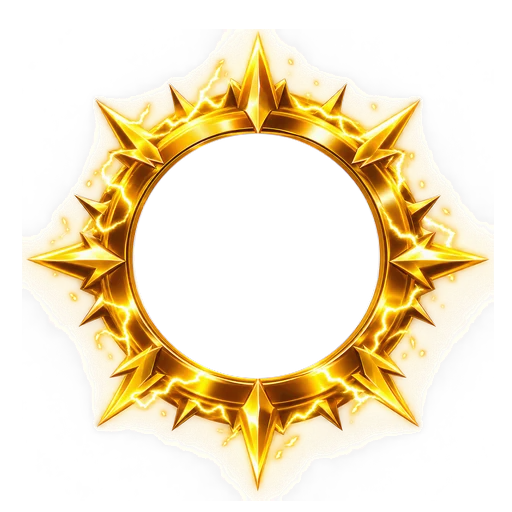
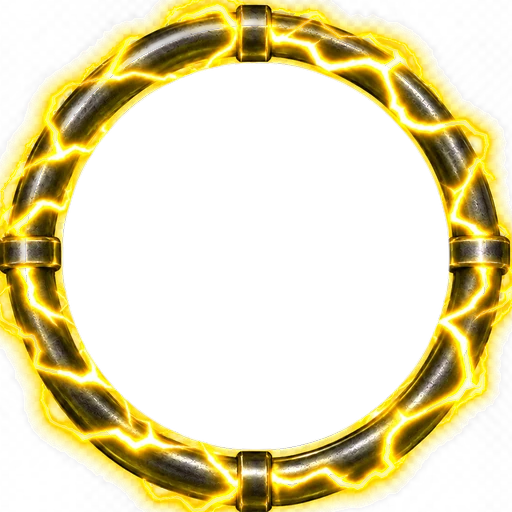
Swap in slimmer lightning ring frames
The user found the spiky frames too big. The new gold, blue and green
thin rings replace them; the green and gold images had a baked-in
checkerboard background, which is removed by unmixing against a
fitted checker template.

diff --git a/backend/css/app.css b/backend/css/app.css
@@ -2042,10 +2042,10 @@ button.chaqmoq-belgi:active { transform: scale(.95); }
 @media (prefers-reduced-motion: reduce) { .nik-emoji { animation: none; } }
 .premium-halqa { border-radius: 50%; box-shadow: 0 0 0 2.5px #fff, 0 0 0 5px #f5b301, 0 0 14px 4px rgba(245, 179, 1, .45); }
 
-/* Premium avatar ramkasi (assets/ramka/*.webp): rasm markazidagi teshik radiusi — rasm o'lchamining 24%.
-   --rk — ramka o'lchami avatarga nisbatan: 1.96 da teshik avatar chetiga tegadi, kichikroq
-   qiymatda ramka avatar chetini biroz yopadi (ro'yxatlarda tikanlar qo'shni qatorga chiqmasin). */
-.ramkali { position: relative; display: inline-grid; place-items: center; flex: 0 0 auto; --rk: 1.96; }
+/* Premium avatar ramkasi (assets/ramka/*.webp): ingichka chaqmoqli halqa, rasm markazidagi teshik
+   radiusi — rasm o'lchamining 38%. --rk — ramka o'lchami avatarga nisbatan: 1.3 da halqa avatar
+   chetiga zich yopishadi, kichikroq qiymatda avatar chetini biroz yopadi (ro'yxatlarda). */
+.ramkali { position: relative; display: inline-grid; place-items: center; flex: 0 0 auto; --rk: 1.3; }
 .ramkali > .ramka {
   position: absolute; left: 50%; top: 50%; z-index: 2; pointer-events: none;
   width: calc(var(--rk) * 100%); height: calc(var(--rk) * 100%);
@@ -2054,23 +2054,23 @@ button.chaqmoq-belgi:active { transform: scale(.95); }
   animation: ramkaNur 3.2s ease-in-out infinite;
 }
 .ramka.r-oltin-chaqmoq { background-image: url(../assets/ramka/oltin-chaqmoq.webp); }
-.ramka.r-brilyant-boron { background-image: url(../assets/ramka/brilyant-boron.webp); }
-.ramka.r-kamalak-plazma { background-image: url(../assets/ramka/kamalak-plazma.webp); }
+.ramka.r-kok-chaqmoq { background-image: url(../assets/ramka/kok-chaqmoq.webp); }
+.ramka.r-yashil-chaqmoq { background-image: url(../assets/ramka/yashil-chaqmoq.webp); }
 @keyframes ramkaNur { 0%, 100% { filter: brightness(1) saturate(1); } 50% { filter: brightness(1.16) saturate(1.12); } }
 @media (prefers-reduced-motion: reduce) { .ramkali > .ramka { animation: none; } }
-.reyting-qator .ramkali { --rk: 1.72; margin: 0 4px; }
-.bosh-ramka { --rk: 2.02; margin: 12px 16px 12px 12px; }
+.reyting-qator .ramkali { --rk: 1.24; margin: 0 2px; }
+.bosh-ramka { --rk: 1.3; margin: 0 6px 0 4px; }
 .bosh-ramka > .avatar-halqa { margin: 0; }
 .ramkali.ramka-ichida > .avatar { box-shadow: none; }
 
 /* Sozlamalar: ramka tanlash */
 .ramka-tanlov { display: grid; grid-template-columns: repeat(3, 1fr); gap: 10px; margin-top: 10px; }
 .ramka-katak {
-  display: grid; justify-items: center; gap: 10px; padding: 22px 6px 12px;
+  display: grid; justify-items: center; gap: 10px; padding: 16px 6px 12px;
   border-radius: 16px; border: 2px solid var(--chiziq); background: var(--oq); cursor: pointer;
   font: inherit; font-size: 12.5px; font-weight: 800; color: var(--matn-quyuq); overflow: hidden;
 }
-.ramka-katak .ramkali { margin: 8px 0; }
+.ramka-katak .ramkali { margin: 4px 0; }
 .ramka-katak .avatar { width: 46px; height: 46px; font-size: 18px; }
 .ramka-katak.tanlangan { border-color: #f5b301; background: #fff7d6; box-shadow: 0 0 0 3px rgba(245, 179, 1, .25); }
 .ramka-tanlov.qulf { opacity: .6; filter: grayscale(.2); }

diff --git a/backend/js/i18n.js b/backend/js/i18n.js
@@ -367,8 +367,8 @@
     'Bilim Premium': 'Bilim Premium', 'Bilim Premium (1 oy)': 'Bilim Premium (1 мес.)', 'Bilim Premium (1 oy) •': 'Bilim Premium (1 мес.) •',
     'AI, shaxsiy darslar, emoji va oltin halqa': 'ИИ, личные уроки, эмодзи и золотое кольцо',
     'AI, shaxsiy darslar, emoji va avatar ramkasi': 'ИИ, личные уроки, эмодзи и рамка аватара',
-    'Avatar ramkasi': 'Рамка аватара', 'Oltin chaqmoq': 'Золотая молния', "Brilyant bo'ron": 'Бриллиантовая буря',
-    'Kamalak plazma': 'Радужная плазма', 'Ramka saqlandi': 'Рамка сохранена',
+    'Avatar ramkasi': 'Рамка аватара', 'Oltin chaqmoq': 'Золотая молния', "Ko'k chaqmoq": 'Синяя молния',
+    'Yashil chaqmoq': 'Зелёная молния', 'Ramka saqlandi': 'Рамка сохранена',
     "Avataringiz atrofida chaqmoqli ramka paydo bo'ladi — 3 xil ramkadan birini tanlaysiz. Hamma sizni Premium o'quvchi ekaningizni ko'radi.":
       'Вокруг аватара появится рамка с молниями — выберите одну из 3. Все увидят, что вы ученик с Premium.',
     "Tanlagan ramkangiz profil, reyting va o'yinlarda avataringiz atrofida ko'rinadi.":

diff --git a/backend/premium.html b/backend/premium.html
@@ -42,8 +42,8 @@
   .pr-band p { font-size: 13px; color: var(--matn-2); line-height: 1.5; }
   .pr-emojilar { display: flex; flex-wrap: wrap; gap: 6px; margin-top: 8px; }
   .pr-emojilar img { width: 28px; height: 28px; object-fit: contain; }
-  .pr-halqa-namuna { display: flex; align-items: center; gap: 34px; margin: 22px 0 16px 20px; }
-  .pr-halqa-namuna .avatar { width: 40px; height: 40px; font-size: 15px; }
+  .pr-halqa-namuna { display: flex; align-items: center; gap: 22px; margin: 12px 0 6px 6px; }
+  .pr-halqa-namuna .avatar { width: 44px; height: 44px; font-size: 16px; }
   .pr-eslatma { margin-top: 14px; font-size: 12px; color: var(--matn-2); text-align: center; }
   .pr-tolov { margin-top: 18px; }
   .pr-tolov h2 { font-size: 17px; margin-bottom: 10px; }

diff --git a/backend/dashboard.html b/backend/dashboard.html
@@ -116,7 +116,7 @@
     var halqa = document.getElementById('maqsadHalqa');
     halqa.innerHTML = avatarHtml(u.name, u.photo_url);
     // Premium ramkasi reja halqasining tashqarisidan o'raladi (halqa ko'rinib turadi)
-    var ramka = pr.active && ['oltin-chaqmoq', 'brilyant-boron', 'kamalak-plazma'].indexOf(pr.frame) >= 0 ? pr.frame : null;
+    var ramka = pr.active && ['oltin-chaqmoq', 'kok-chaqmoq', 'yashil-chaqmoq'].indexOf(pr.frame) >= 0 ? pr.frame : null;
     var eski = halqa.parentElement.classList.contains('ramkali') ? halqa.parentElement : null;
     if (ramka && !eski) {
       var w = document.createElement('span');

diff --git a/backend/css/games.css b/backend/css/games.css
@@ -299,7 +299,7 @@
 .oy-oyinchi.bosh { border-style: dashed; background: transparent; }
 .oy-oyinchi.bosh .avatar { background: var(--fon); border-color: var(--chiziq); color: var(--matn-3); }
 .oy-oyinchi .avatar { width: 38px; height: 38px; font-size: 15px; }
-.oy-oyinchi .ramkali { --rk: 1.72; margin: 0 4px; }
+.oy-oyinchi .ramkali { --rk: 1.24; margin: 0 2px; }
 .oy-oyinchi-matn { flex: 1; min-width: 0; }
 .oy-oyinchi-matn b { display: block; font-size: 14px; overflow: hidden; text-overflow: ellipsis; white-space: nowrap; }
 .oy-oyinchi-matn small { display: block; color: var(--matn-2); font-size: 12px; }

diff --git a/backend/profile.html b/backend/profile.html
@@ -32,7 +32,7 @@
   @keyframes orbitaKir { from { opacity: 0; scale: .3; } }
   @keyframes orbitaSuz { to { transform: translate(calc(var(--x) * var(--om, 1)), calc(var(--y) * var(--om, 1) - 6px)); } }
   /* Ramka bo'lsa — nishonlar tikanlardan tashqariroqqa suriladi */
-  .avatar-orbita.ramkali-orbita { --om: 1.32; margin-top: 26px; margin-bottom: 26px; }
+  .avatar-orbita.ramkali-orbita { --om: 1.12; margin-top: 8px; margin-bottom: 10px; }
   .avatar-orbita .ramkali { display: grid; }
 
   /* Yuqori o'ng burchakdagi Sozlamalar tugmasi */

diff --git a/backend/js/ui.js b/backend/js/ui.js
@@ -344,7 +344,7 @@
   }
 
   /** Premium o'quvchi tanlagan emoji (ism yonida). Kalit bo'lmasa — bo'sh. */
-  var RAMKALAR = { 'oltin-chaqmoq': 1, 'brilyant-boron': 1, 'kamalak-plazma': 1 };
+  var RAMKALAR = { 'oltin-chaqmoq': 1, 'kok-chaqmoq': 1, 'yashil-chaqmoq': 1 };
   /** Avatar HTML'ini Premium ramkasi bilan o'raydi (ramka bo'lmasa — o'zgarishsiz). */
   function ramkali(avatarHtml, ramka, cls) {
     if (!ramka || !RAMKALAR[ramka]) return avatarHtml;

diff --git a/backend/sw.js b/backend/sw.js
@@ -7,7 +7,7 @@
      (shu tarzda deploy qilingan yangilanish darhol ko'rinadi).
 */
 
-const CACHE = 'bilimsari-v30';
+const CACHE = 'bilimsari-v31';
 
 const ASSETS = [
   '/',

diff --git a/backend/premium.py b/backend/premium.py
@@ -32,8 +32,8 @@ _KEY_RE = re.compile(r'^[a-z0-9_-]{1,40}$')
 # tanlamagan bo'lsa — birinchisi. Premium tugasa ramka yashiriladi, tanlov saqlanadi.
 FRAMES = [
     ('oltin-chaqmoq', 'Oltin chaqmoq'),
-    ('brilyant-boron', "Brilyant bo'ron"),
-    ('kamalak-plazma', 'Kamalak plazma'),
+    ('kok-chaqmoq', "Ko'k chaqmoq"),
+    ('yashil-chaqmoq', 'Yashil chaqmoq'),
 ]
 FRAME_KEYS = [k for k, _ in FRAMES]
 DEFAULT_FRAME = FRAME_KEYS[0]
